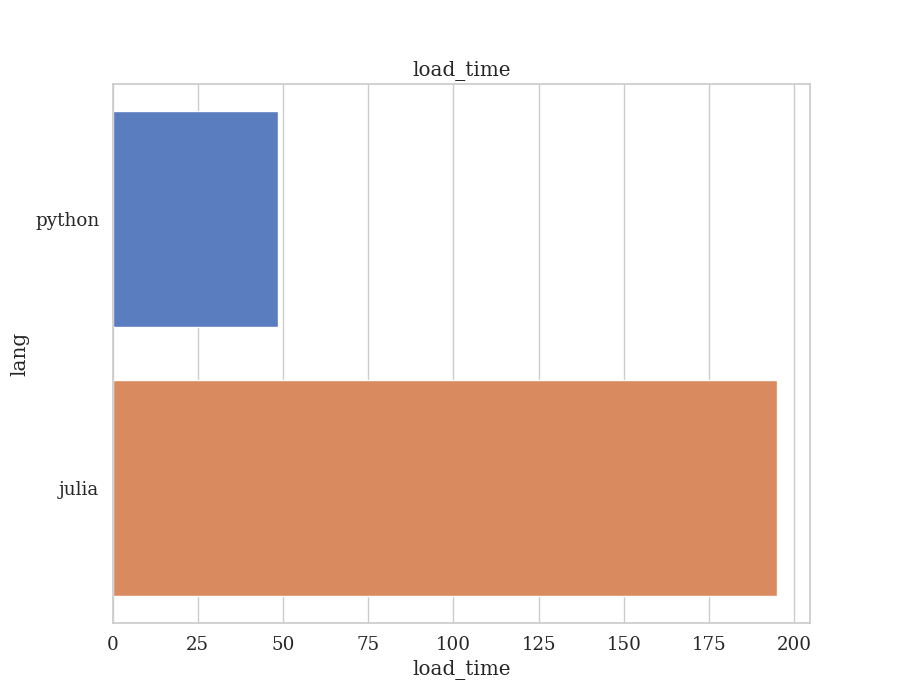
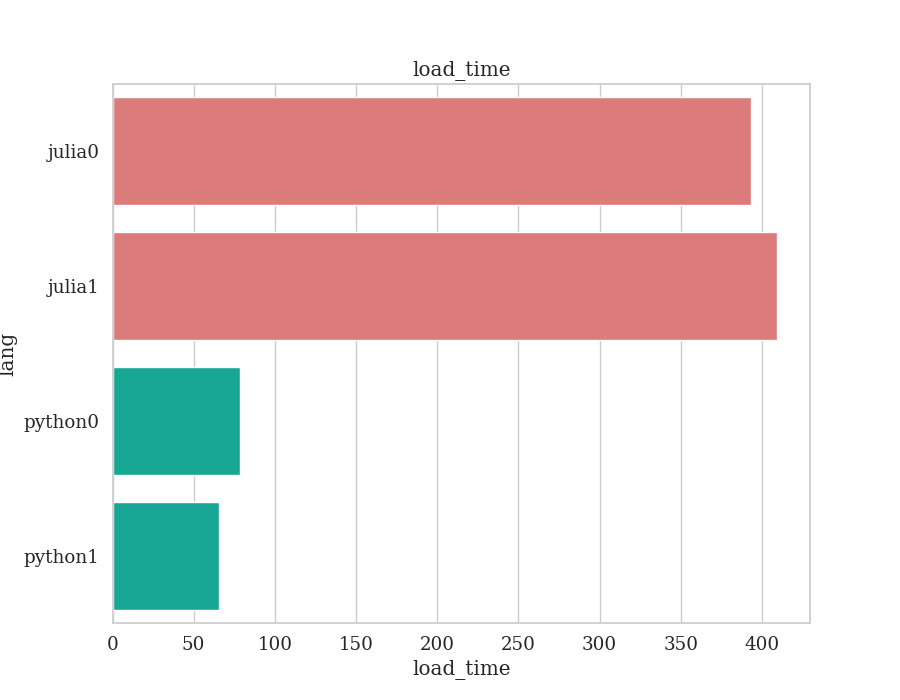
apply recommedded changes in script.jl prepare double run in main.py and import new charts

diff --git a/main.py b/main.py
@@ -16,7 +16,7 @@ python_file = 'script.py'
 # data preparation
 t0 = time.time()
 data_min = 0
-data_max = 10000000
+data_max = 100000
 n = 200000000
 
 # create data
@@ -33,17 +33,22 @@ df.to_csv(path + '/data.csv', index=False, encoding='utf-8')
 t1 = time.time() - t0
 print('Data prepared in {0} seconds'.format(t1))
 
-# a = subp.check_output(str(python_exec + path + python_file + ' ' + path), shell=True)
-a = subp.check_call(str(python_exec + path + python_file + ' ' + path), shell=True)
-# b = subp.check_output(str(julia_exec + path.replace('/','\\') + julia_file), shell=True)
-b = subp.check_call(str(julia_exec + path + julia_file + ' ' + path), shell=True)
-
-# read results
+exec_list = [python_exec, julia_exec]
+files_list = [python_file, julia_file]
+lang_list = ['python', 'julia']
 results_df = pd.DataFrame()
-for lang in ['python', 'julia']:
-    results = pd.read_csv(path + 'output_{}.csv'.format(lang), sep=',')
-    results['lang'] = lang
-    results_df = pd.concat([results_df, results], ignore_index=True)
+
+for i in [0, 1]:
+    for j in [0, 1]:
+        exec_path = exec_list[j]
+        exec_file = files_list[j]
+        lang = lang_list[j]
+        subp.check_call(str(exec_path + path + exec_file + ' ' + path), shell=True)
+        results = pd.read_csv(path + 'output_{}.csv'.format(lang), sep=',')
+        results['lang'] = lang + str(i)
+        results_df = pd.concat([results_df, results], ignore_index=True)
+
+results_df.sort_values(by='lang', inplace=True)
 
 # plot results
 plt.rcParams['figure.figsize'] = (9, 7)
@@ -52,8 +57,8 @@ sns.set(font_scale=1.2)
 sns.set_style('whitegrid', {'font.family': 'serif', 'font.serif': 'Times New Roman'})
 
 for col in ['load_time', 'groupby_time', 'sort_time']:
-    sns.barplot(x=results_df[col], y=results_df.lang, palette="muted"
-                ).set(title=col, xlabel=col)
+    sns.barplot(x=results_df[col], y=results_df.lang, palette=["#eb6c6a", "#eb6c6a", "#00bfa5", "#00bfa5"]).set(
+        title=col, xlabel=col)
     plt.savefig(path + 'charts\\' + col + '_{}'.format(str(int(n / 1000))) + 'k')
     # plt.show()
     plt.close()

diff --git a/README.md b/README.md
@@ -30,7 +30,7 @@ Następnie, powyższe wyniki są wczytywane i dla każdej metryki tworzone są w
 
 
 # Wyniki
-Skrypt został wykonany dla 5 różnych rozmiarów zbioru:
+Skrypt został wykonany dwukrotnie dla 5 różnych rozmiarów zbioru:
 - 500 000,
 - 5 000 000,
 - 50 000 000,
@@ -41,7 +41,7 @@ Nie udało się stworzyć zbioru danych zawierającego 500 milionów wierszy (pr
 
 Wykresy w folderze `/charts` pokazują porównanie czasu wykonania jednej z trzech operacji: ładowania pliku CSV, grupowania oraz sortowania. Jednostką na osi OX są sekundy. Nie uwzględniają czasu kompilacji ani załadowania bibliotek.
 
-W 14 z 15 operacji pakiet `pandas` okazywał się szybszy od `Dataframes`. Jedynie sortowanie 200 milionów wierszy okazało się szybsze w Julii. Największe różnice w wydajności obu rozwiązań widać w operacji ładowania pliku CSV do pamięci. `pandas` był między ~20x a ~5x szybszy dla kolejnych rozmiarów zbioru. W przypadku grupowania danych, różnica między pakietami zmiejszała się wraz ze zwiększaniem zbioru. Różnice na najmniejszym zbiorze sięgały kilkudziesięciokrotności, podczas gdy grupowanie zbioru o rozmiarze 100 milionów wierszy zajęło już niemal tyle samo. Najmniejsze różnice można zauważyć w czasie sortowania. Różnica czasu wykonania spadała systematycznie wraz ze wzrostem rozmiaru zbioru, by przy 200 milionach wierszy okazało się, że `DataFrames` wykonuje operację sortowania nieco szybciej niż `pandas` (528.549s vs. 573.769s).
+W 13 z 15 operacji pakiet `pandas` okazywał się szybszy od `Dataframes`. Jedynie sortowanie 200 milionów wierszy, oraz jedno podejście do grupowania 100 milionów wierszy okazało się szybsze w Julii. Największe różnice w wydajności obu rozwiązań widać w operacji ładowania pliku CSV do pamięci. `pandas` był między ~30x a ~3x szybszy dla kolejnych rozmiarów zbioru. W przypadku grupowania danych, różnica między pakietami zmiejszała się wraz ze zwiększaniem zbioru. Różnice na najmniejszym zbiorze sięgały kilkudziesięciokrotności, podczas gdy grupowanie zbioru o rozmiarze 100 milionów wierszy zajęło już niemal tyle samo. Najmniejsze różnice można zauważyć w czasie sortowania. Różnica czasu wykonania spadała systematycznie wraz ze wzrostem rozmiaru zbioru, by przy 200 milionach wierszy okazało się, że `DataFrames` wykonuje operację sortowania nieco szybciej niż `pandas` (376.298s vs. 508.035s).
 
 Ogólna tendecja wskazuje na to, że im wiekszy rozmiar danych, tym różnice między pakietem `pandas` w Pythonie i `DataFrames` w Julii zmniejszają się. `pandas` radzi sobie o wiele lepiej z mniejszymi zbiorami danych, ale `DataFrames` zaczyna zdobywać przewagę w zbiorach zawierających ponad 200 milionów wierszy.
 
